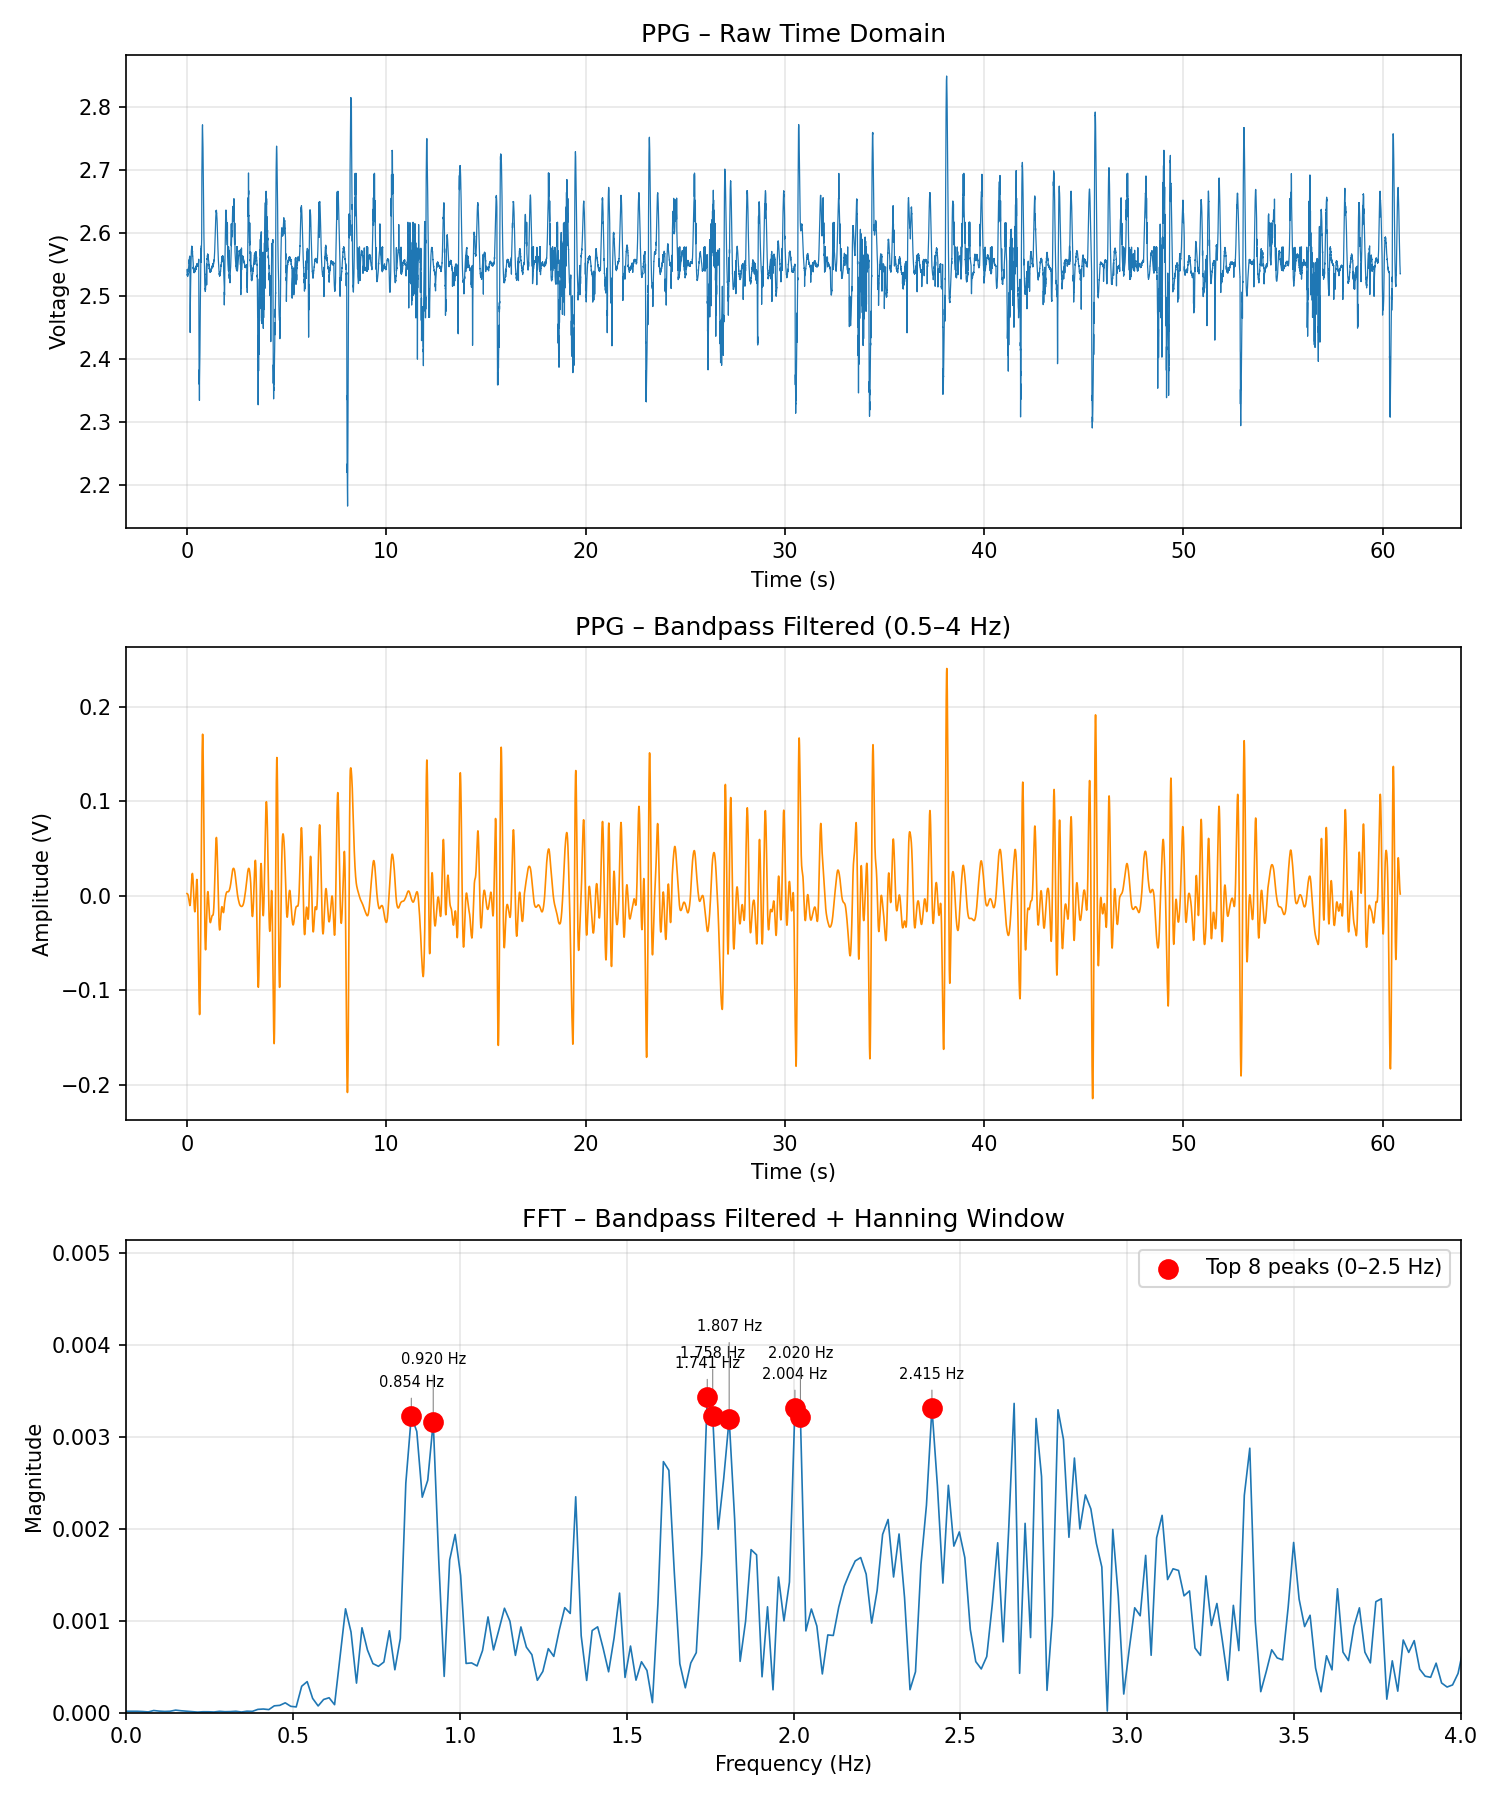
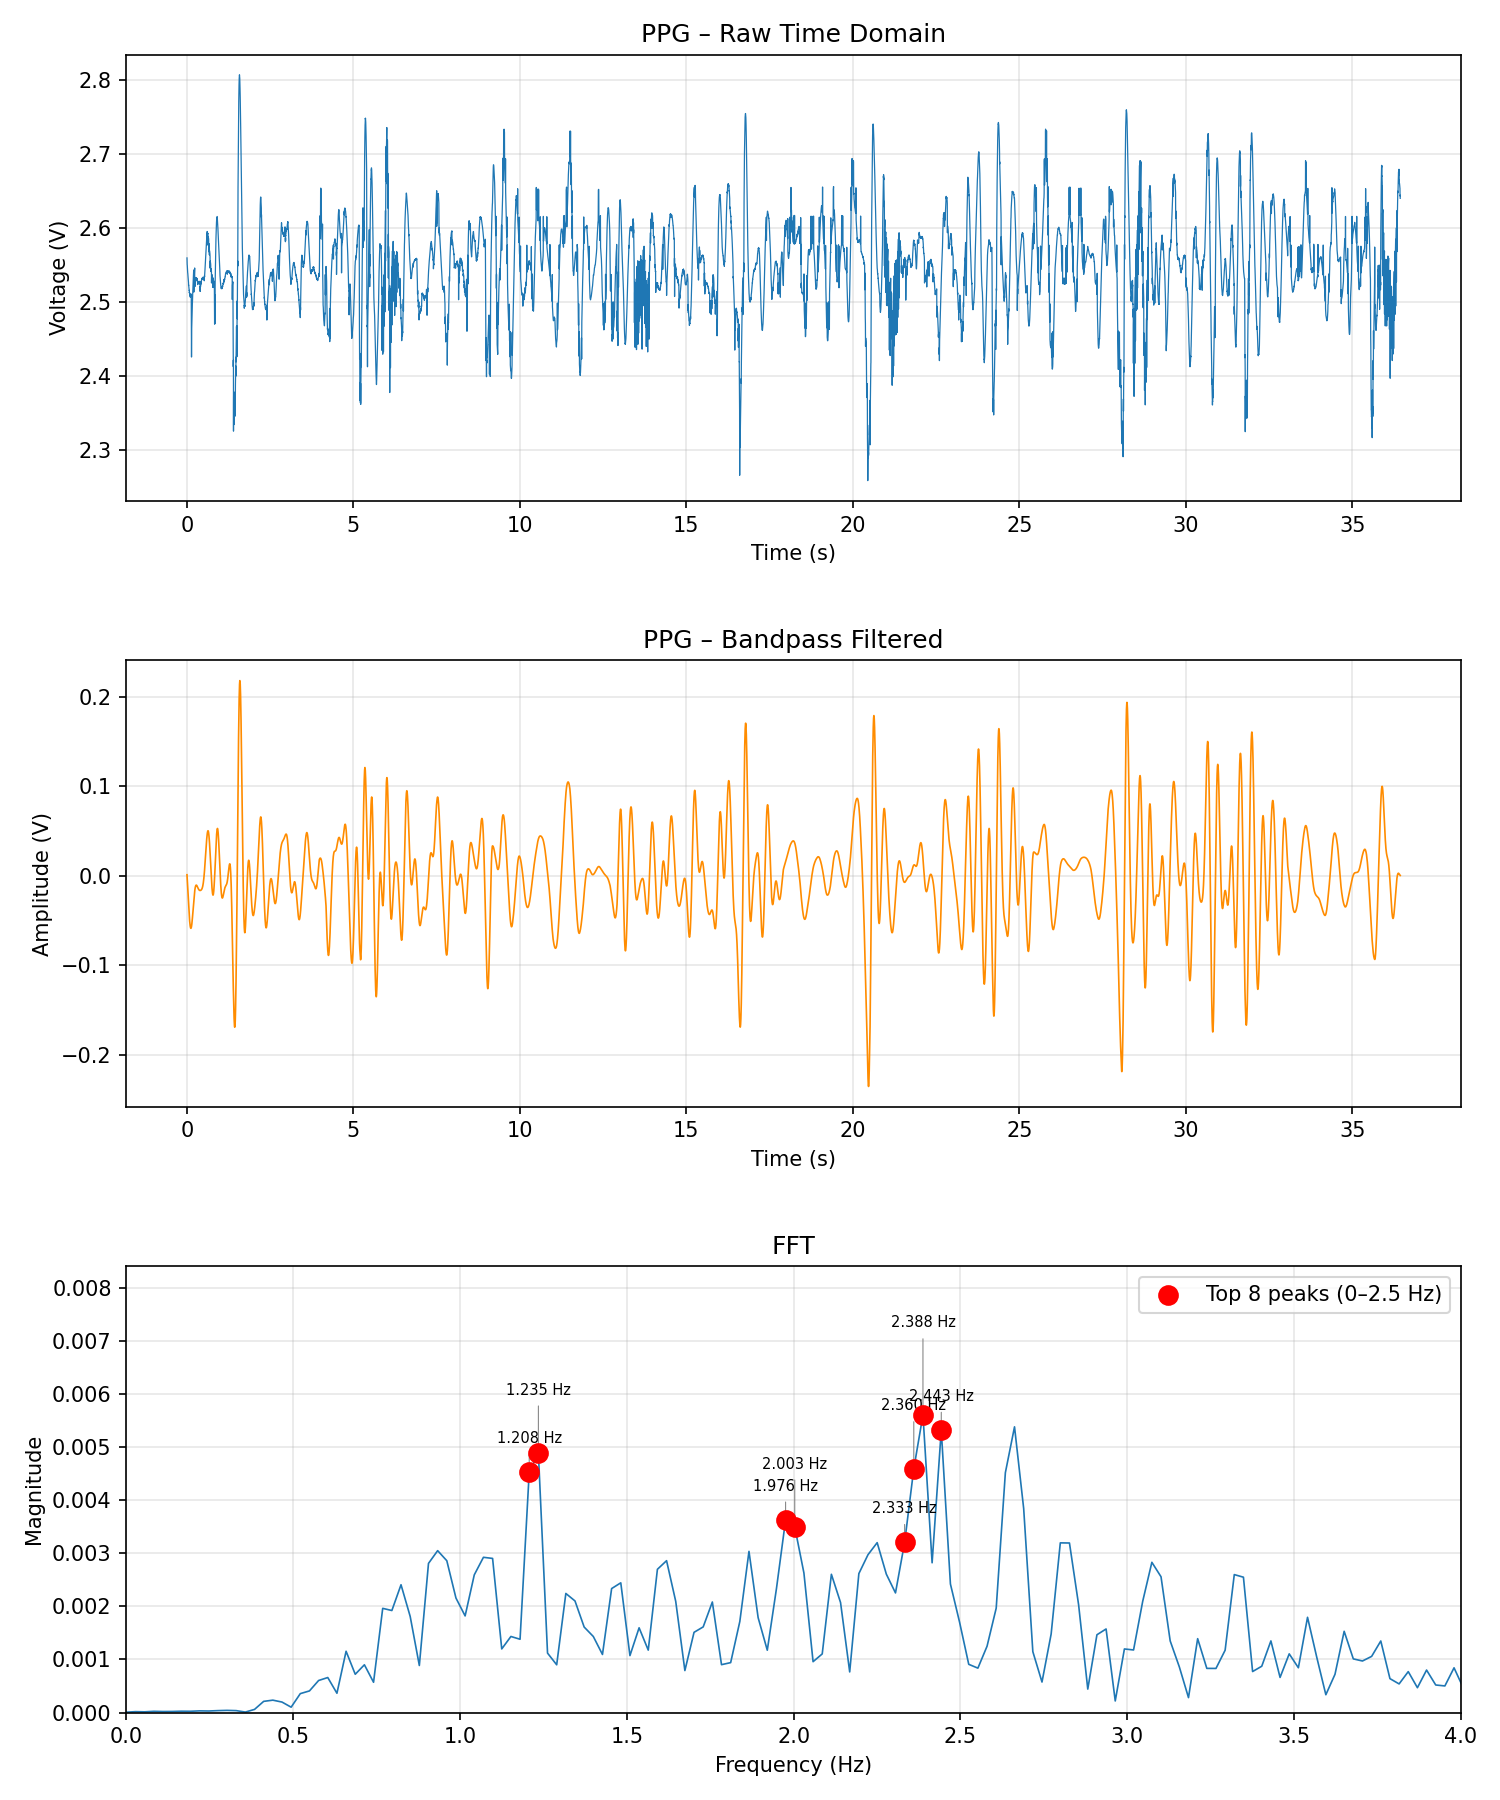
add STFT spectrogram and improve plot spacing/annotations
Made-with: Cursor

diff --git a/Lab3_part1_off_pi.py b/Lab3_part1_off_pi.py
@@ -1,10 +1,11 @@
 import os
 import numpy as np
 import matplotlib.pyplot as plt
-from scipy.signal import butter, filtfilt
+from scipy.signal import butter, filtfilt, ShortTimeFFT
+from scipy.signal.windows import hann
 
 SCRIPT_DIR = os.path.dirname(os.path.abspath(__file__))
-CSV_PATH = "./ppg_data_500hz_50s_final_test.csv"
+CSV_PATH = "./ppg_data_rocking_finger_fast.csv"
 TARGET_FS_HZ = 500
 
 # ── Load data ────────────────────────────────────────────────────────────────
@@ -54,7 +55,7 @@ ax1.grid(True, alpha=0.3)
 ax2.plot(t, ppg_filtered, linewidth=0.8, color='darkorange')
 ax2.set_xlabel("Time (s)")
 ax2.set_ylabel("Amplitude (V)")
-ax2.set_title("PPG – Bandpass Filtered (0.5–4 Hz)")
+ax2.set_title("PPG – Bandpass Filtered")
 ax2.grid(True, alpha=0.3)
 
 # subplot 3 – FFT of the filtered signal
@@ -62,7 +63,7 @@ ax3.plot(freq, mag, linewidth=0.8)
 ax3.scatter(freq[top8_idx], mag[top8_idx], color='red', s=80, zorder=5,
             label='Top 8 peaks (0–2.5 Hz)')
 
-# Annotate each peak, staggering label height to avoid overlap
+
 sorted_by_freq = top8_idx[np.argsort(freq[top8_idx])]
 y_max = mag.max()
 prev_x, prev_y_text = -np.inf, 0.0
@@ -84,13 +85,45 @@ for idx in sorted_by_freq:
 
 ax3.set_xlabel("Frequency (Hz)")
 ax3.set_ylabel("Magnitude")
-ax3.set_title("FFT – Bandpass Filtered + Hanning Window")
+ax3.set_title("FFT")
 ax3.set_xlim(0, 4)
 ax3.set_ylim(0, mag.max() * 1.5)
 ax3.legend()
 ax3.grid(True, alpha=0.3)
 
-plt.tight_layout()
+plt.tight_layout(h_pad=3.0)
 fig.savefig(os.path.join(SCRIPT_DIR, "ppg_time_and_freq.png"), dpi=150)
 print("Saved → ppg_time_and_freq.png")
+
+# ── Figure 2: STFT spectrogram ────────────────────────────────────────────────
+# Window length: 10 s → frequency resolution = 1/10 = 0.1 Hz, fine enough to
+# separate beats ~0.05–0.1 Hz apart while still showing time evolution.
+# Hop: 1 s → one new spectrum per second, giving smooth time axis.
+win_1len  = int(10 * actual_fs)   # 10-second Hanning window
+hop      = int(1  * actual_fs)   # 1-second hop (step between windows)
+window   = hann(win_1len)
+
+SFT = ShortTimeFFT(window, hop=hop, fs=actual_fs, mfft=win_1len)
+Zxx = np.abs(SFT.stft(ppg_filtered))
+
+stft_freqs = SFT.f                          # frequency axis
+stft_times = SFT.t(len(ppg_filtered))       # time axis (centre of each window)
+
+# Only show the 0–1 Hz band
+freq_mask = (stft_freqs >= 0.2) & (stft_freqs <= 1.5)
+
+fig2, ax = plt.subplots(figsize=(11, 4))
+pcm = ax.pcolormesh(stft_times, stft_freqs[freq_mask],
+                    Zxx[freq_mask, :], shading='gouraud', cmap='inferno')
+fig2.colorbar(pcm, ax=ax, label='Magnitude')
+ax.set_xlabel("Time (s)")
+ax.set_ylabel("Frequency (Hz)")
+ax.set_title("STFT Spectrogram – Bandpass Filtered PPG")
+ax.set_ylim(0.4, 1.2)
+ax.grid(True, alpha=0.2, color='white')
+
+plt.tight_layout()
+fig2.savefig(os.path.join(SCRIPT_DIR, "ppg_stft.png"), dpi=150)
+print("Saved → ppg_stft.png")
+
 plt.show()
